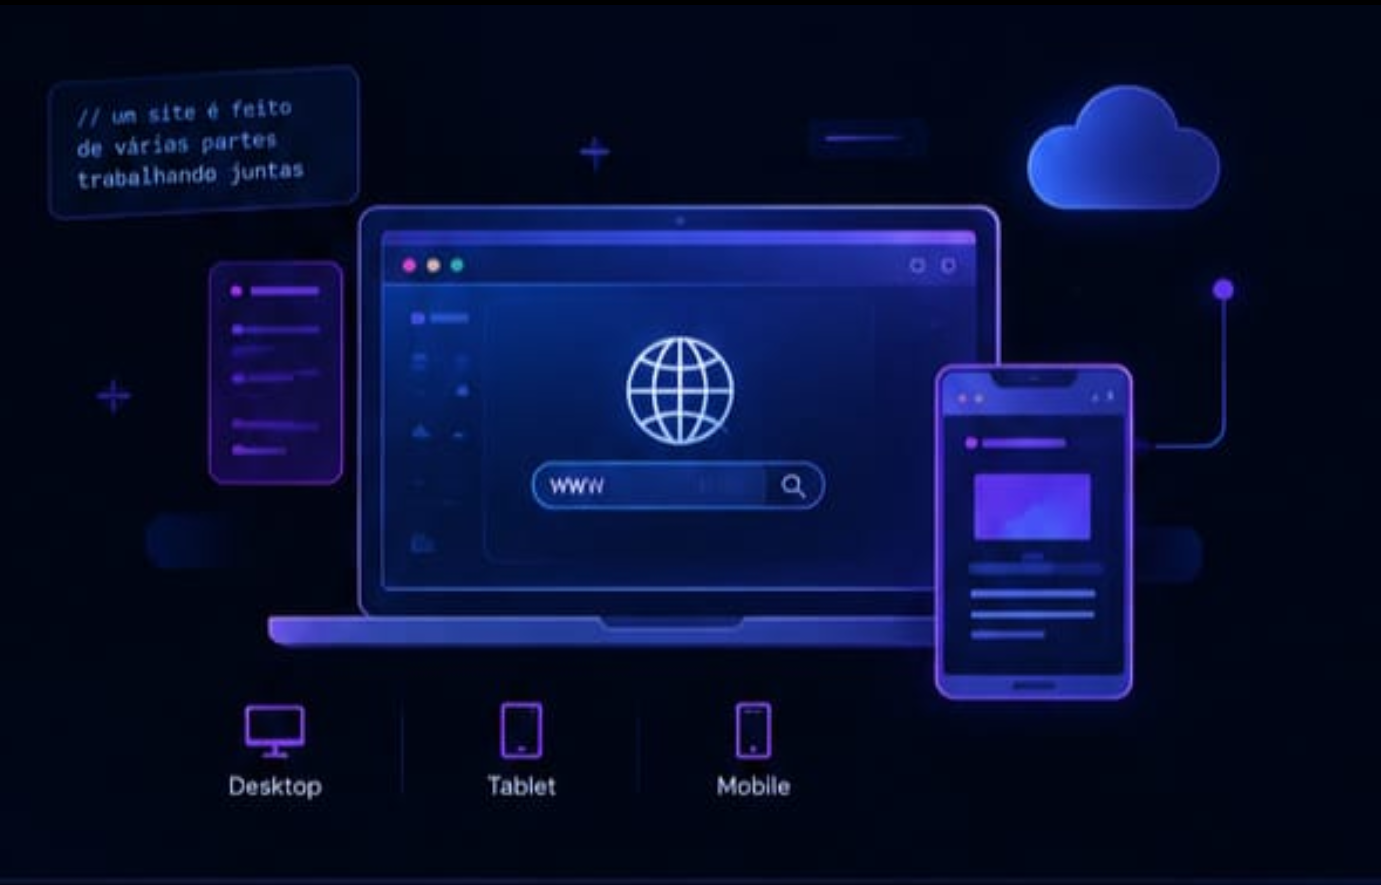
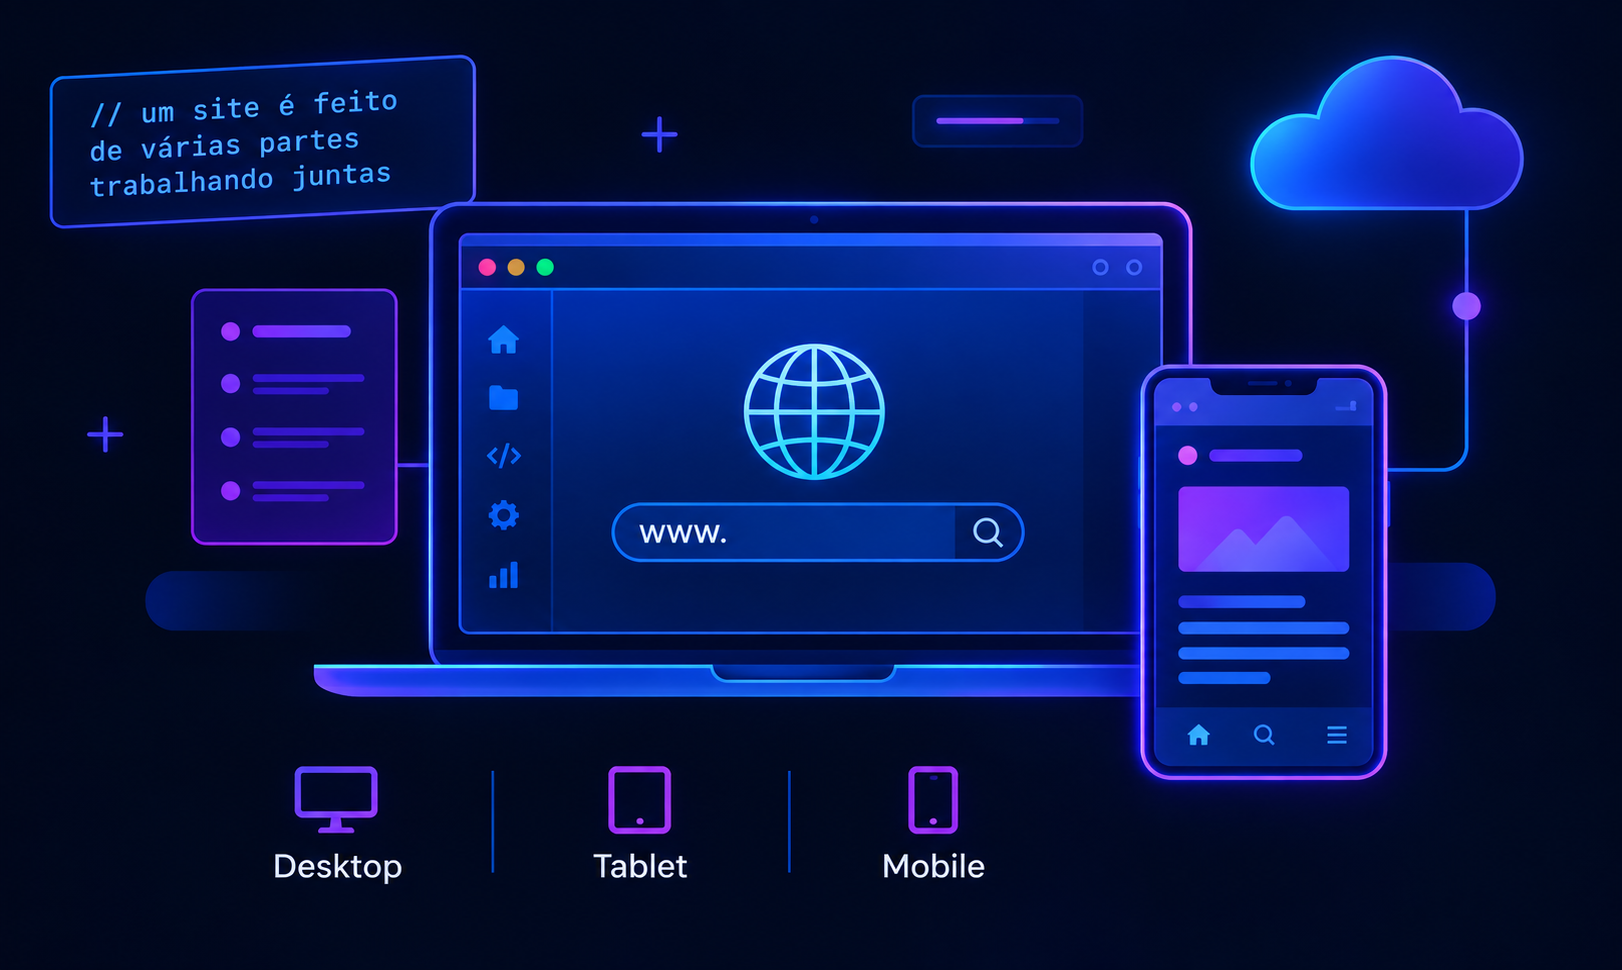
Refactor tech and career sections in HTML, enhance CSS for better layout and responsiveness, and add new images

diff --git a/index.html b/index.html
@@ -44,8 +44,9 @@
         <section id="tech-section">
             <div class="sub-box tech">
                 <span class="dif-color">02 / tecnologias</span>
-                <div class="span-maior" style="display: flex; gap: 10px;">
-                    <h1 class="normal-color">As principais <span class="dif-color">tecnologias</span></h1> 
+                <div style="display: flex; gap: 10px;">
+                    <h1 class="normal-color">As principais </h1> 
+                    <h1 class="dif-color">tecnologias</h1>
                 </div>
                 <p>Cada tecnologia tem um papel importante na construção de um site. Juntas, elas formam a base da programação web.</p>
             </div>
@@ -125,7 +126,7 @@ ORDER BY nome;</code></pre>
                     <div class="codigo">
                         <pre><code class="language-php">&lt;?php
     $nome = 'Larissa';
-    echo "olá, &#36;nome!";
+    echo "olá, $nome!";
 ?></code></pre>
                     </div>
                 </div>
@@ -139,7 +140,7 @@ ORDER BY nome;</code></pre>
                     </div>
                     <p>Ambiente de execução JavaScript que permite criar aplicações do lado do servidor, usando o mesmo JavaScript do front-end.</p>
                     <div class="codigo">
-                        <pre><code class="language-javascript nodejs">const express = require('express');
+                        <pre><code class="language-javascript">const express = require('express');
 const app = express();
 app.get('/', (req, res) => {
     res.send('servidor rodando!');
@@ -149,8 +150,48 @@ app.listen(3000, () => console.log('Porta 3000'));</code></pre>
                 </div>
             </div>
         </section>
-        <section id="funciona"></section>
-        <section id="carreira"></section>
+        <section id="carreira">
+            <section id="carreira">
+            <div class="sub-box tech">
+                <span class="dif-color">03 / carreiras</span>
+                <div class="span-maior" style="display: flex; gap: 10px;">
+                    <h1 class="normal-color">Onde posso trabalhar com <span class="dif-color">programação web?</span></h1> 
+                </div>
+                <p>Com o conhecimento em programação web, você pode atuar em diversas áreas do mercado de tecnologia. Essa área está em constante crescimento e oferece muitas oportunidades, tanto no Brasil quanto no exterior.</p>
+            </div>
+            <div class="sub-box">
+                <div class="tech-box jobs-box">
+                    <span class="dif-color"">Front-end Developer</span>
+                    <p>Cria a parte visual e interativa dos sites, usando tecnologias como HTML, CSS e JavaScript.</p>
+                </div>
+                <div class="tech-box jobs-box">
+                    <span class="dif-color">Back-end developer</span>
+                    <p>Cuida da lógica de programação e do funcionamento por trás do site, com linguagens como PHP, Node.js, Python, entre outras.</p>
+                   
+                </div>
+                <div class="tech-box jobs-box">
+                    <span class="dif-color">Full Stack Developer</span>
+                    <p>Trabalha tanto no front-end quando no back-end, unindo o visual e a lógica do sistema.</p>
+                   
+                </div>
+                <div class="tech-box jobs-box">
+                    <span class="dif-color">Desenvolvedor Mobile</span>
+                    <p>Cria aplicativos para dispositivos móveis, como smartphones e tablets.</p>
+                    
+                </div>
+                <div class="tech-box jobs-box">
+                    <span class="dif-color">Administrador de banco de dados</span>
+                    <p>Gerencia e organiza informações, garantindo a segurança e o bom funcionamento dos dados.</p>
+                    
+                </div>
+                <div class="tech-box jobs-box">
+                    <span class="dif-color">ui/ux designer</span>
+                    <p>Trabalha na experiência e no design do usuário, deixando os sites e aplicativos mais intuitivos e bonitos.</p>
+                    
+                </div>
+            </div>
+        </section><br><br><br>
+        </section>
     </main>
     <footer>
         <p>Guilherme Miguel, Larissa Maiero, Manuela Fernandes, Paula Pires, Pedro Henrique</p>

diff --git a/style.css b/style.css
@@ -108,14 +108,13 @@ section p {
     box-shadow: 0 0 20px 5px #cc16e1;
     border-radius: 12px;
 }
-#tech-section {flex-direction: column;}
+#tech-section, #carreira {flex-direction: column;}
 .tech {
     display: flex;
     flex-direction: column;
     width: 100%;
     height: auto;
 }
-.span-maior span {font-size: 1em;}
 .sub-box {
     display: flex;
     width: 100%;
@@ -185,6 +184,10 @@ section p {
     text-transform: none !important;
     margin: 0 !important;
 }
+/*SEÇÃO DE CARREIRAS*/
+.jobs-box {text-align: center;}
+.jobs-box span {font-size: 2em;}
+.jobs-box p {font-size: 1.2em;}
 /*FOOTER (RODAPÉ)*/
 footer {
     display: flex;
@@ -224,6 +227,7 @@ footer p:last-child {font-size: 0.8em;}
         align-items: center;
         gap: 10px;
     }
+    .jobs-box {height: 300px;}
 }
 @media (max-width: 1400px) {
     section {
@@ -239,21 +243,26 @@ footer p:last-child {font-size: 0.8em;}
     }
     .tech-box {
         height: 500px;
-        width: 32%;
     }
     .codigo code {
-        font-size: 0.8em !important;
+        font-size: 0.7em !important;
     }
     .tech-box p {
         line-height: 1.5em;
     }
+    .jobs-box {height: 250px;}
 }
 @media (max-width: 1024px) {
     .tech-box {
-        width: 48%;
+        height: 400px;
+        width: 45%;
     }
     .codigo code {
-        font-size: 0.9em !important;
+        font-size: 0.8em !important;
+    }
+    .codigo {
+        width: 100%;
+        height: 100%;
     }
 }
 @media (max-width: 768px) {
@@ -271,43 +280,43 @@ footer p:last-child {font-size: 0.8em;}
     .text-box {
         display: flex;
         flex-direction: column;
-        width: 50%;
+        width: 45%;
         height: 100%;
-        padding: 5px;
+        padding: 10px;
     }
     section span {
-        font-size: 0.6em;
+        font-size: 0.8em;
         font-weight: bold;
         margin-bottom: 10px;
     }
     h1 {
-        font-size: 1.5em;
+        font-size: 2em;
         text-transform: uppercase;
     }
     section p {
-        font-size: 0.7em;
+        font-size: 0.8em;
         line-height: 1.5em;
         margin: 10px 0;
     }
     .section-img {
         position: absolute;
         right: 10px;
-        top: 25%;
-        width: 45%;
-        height: 50%;
+        top: 0;
+        bottom: 0;
+        width: 50%;
+        height: 100%;
         box-shadow: 0 0 20px 5px #cc16e1;
         border-radius: 12px;
     }
     .tech-box {
+        height: 400px;
         width: 100%;
     }
-    .tech-box span {font-size: 0.9em;}
-    .tech-box p {font-size: 1em;}
     .codigo {
         width: 80%;
         height: 100%;
     }
     .codigo code {
-        font-size: 1.1em !important;
+        font-size: 1em !important;
     }
 }
